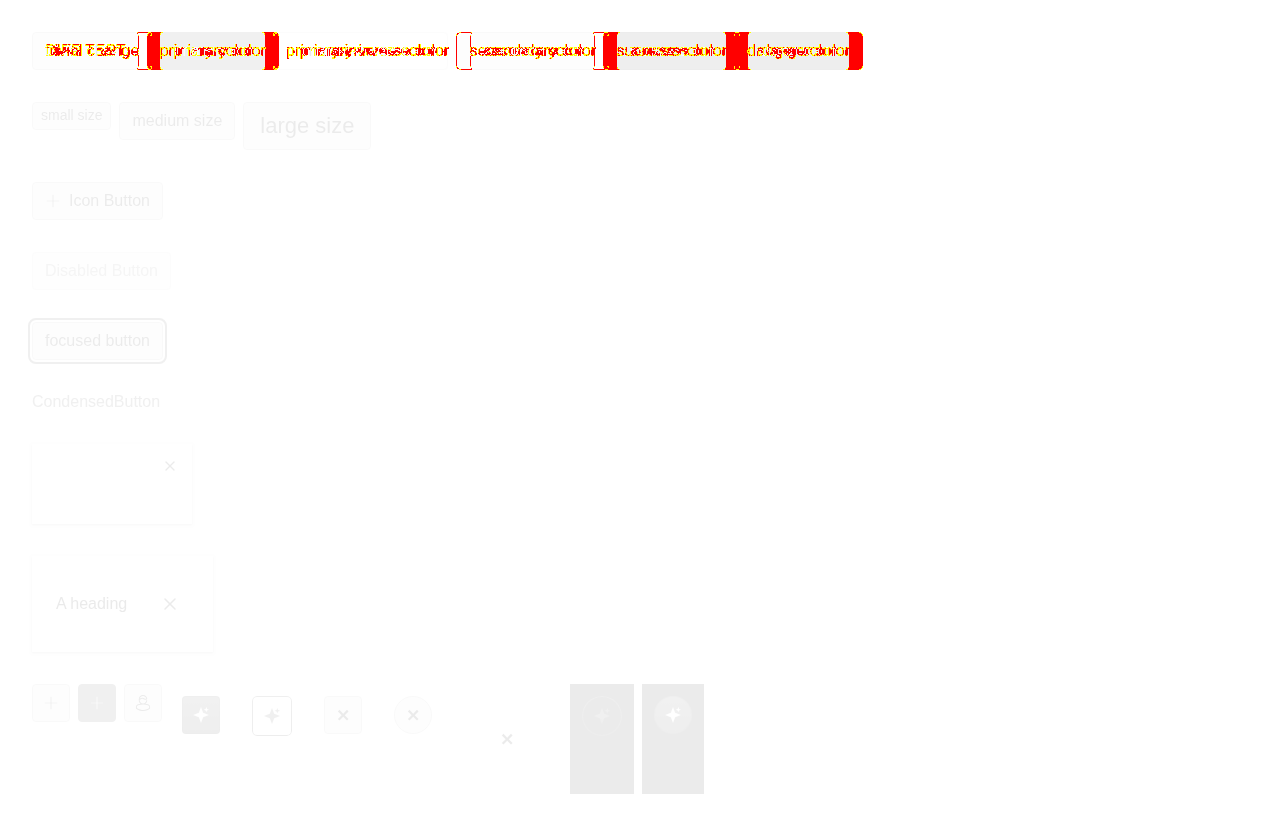
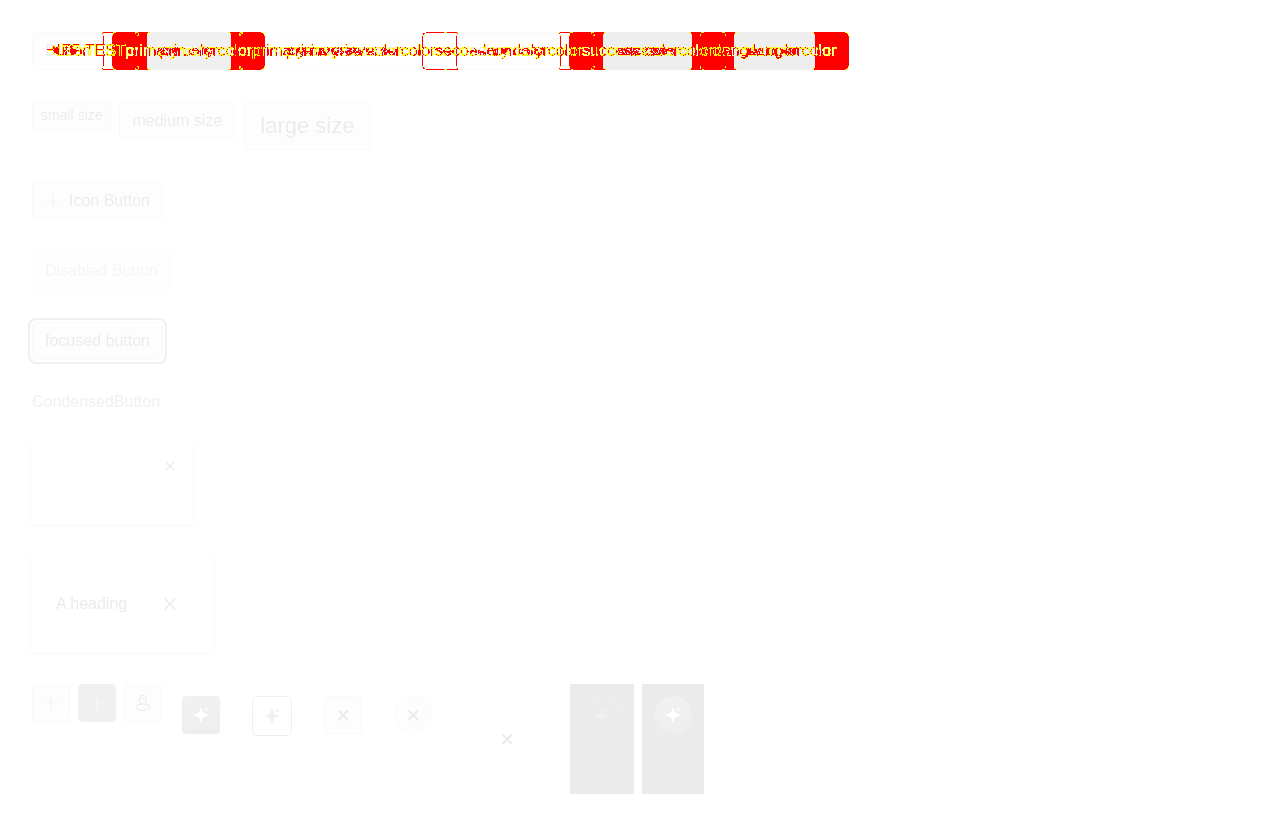
visual-regression: PR #2522 (d92aef3e9830aa3ffa37fe298cb5967ead79ed71) d92aef3e9830aa3ffa37fe298cb5967ead79ed71

Changed region(s): [[0.0312, 0.0303, 0.6875, 0.0908]]

diff --git a/visual-regression/pr-2522/index.html b/visual-regression/pr-2522/index.html
@@ -88,7 +88,7 @@
       <div class="grid"><figure><figcaption>Baseline</figcaption><img loading="lazy" src="baseline/breadcrumb.png" data-name="breadcrumb.png" data-mode="baseline" class="thumb" /></figure><figure><figcaption>Actual</figcaption><img loading="lazy" src="actual/breadcrumb.png" data-name="breadcrumb.png" data-mode="actual" class="thumb" /></figure><figure><figcaption>Diff</figcaption></figure></div>
     </section>
     <section class="row" data-status="changed" data-name="button-and-derivatives.png" data-has-both="true">
-      <header><h2>button-and-derivatives.png</h2><span class="pill fail">changed</span><div class="meta">5595 pixels differ</div><a class="source-link" href="https://github.com/instructure/instructure-ui/blob/feat/self-hosted-visual-regression/regression-test/src/app/button//page.tsx" target="_blank" rel="noopener">button//page.tsx</a></header>
+      <header><h2>button-and-derivatives.png</h2><span class="pill fail">changed</span><div class="meta">8208 pixels differ</div><a class="source-link" href="https://github.com/instructure/instructure-ui/blob/feat/self-hosted-visual-regression/regression-test/src/app/button//page.tsx" target="_blank" rel="noopener">button//page.tsx</a></header>
       <div class="grid"><figure><figcaption>Baseline</figcaption><img loading="lazy" src="baseline/button-and-derivatives.png" data-name="button-and-derivatives.png" data-mode="baseline" class="thumb" /></figure><figure><figcaption>Actual</figcaption><img loading="lazy" src="actual/button-and-derivatives.png" data-name="button-and-derivatives.png" data-mode="actual" class="thumb" /></figure><figure><figcaption>Diff</figcaption><img loading="lazy" src="diff/button-and-derivatives.png" data-name="button-and-derivatives.png" data-mode="diff" class="thumb" /></figure></div>
     </section>
     <section class="row" data-status="unchanged" data-name="byline.png" data-has-both="true">